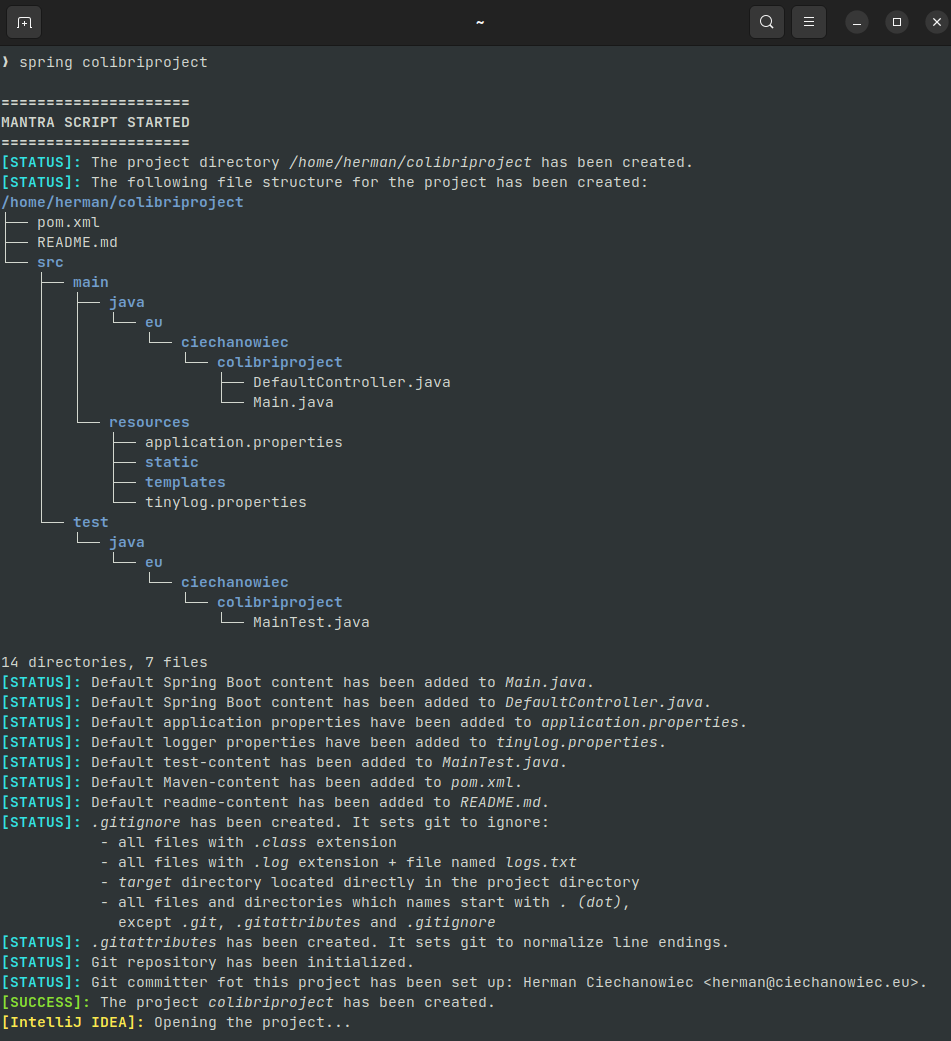
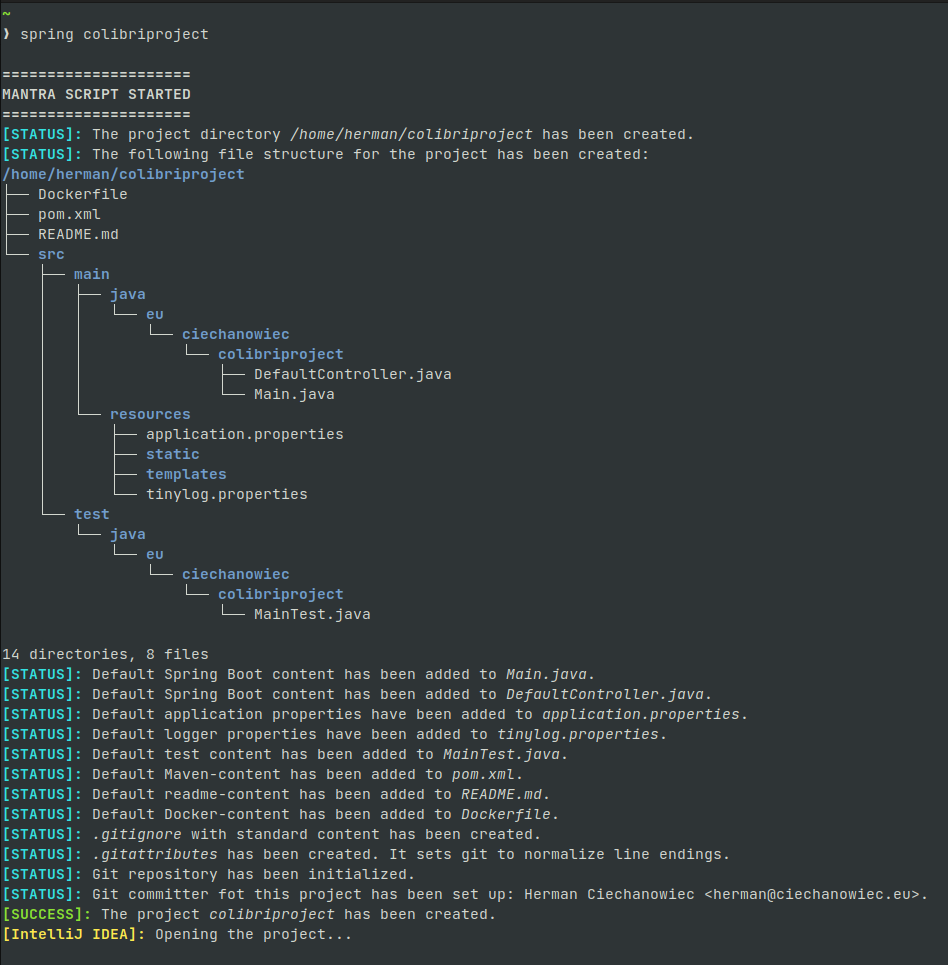
Update readme

Changed region(s): [[0.0, 0.3109, 0.9789, 0.9948], [0.0, 0.0, 0.7342, 0.4041], [0.7954, 0.0, 0.8259, 0.0311]]

diff --git a/README.md b/README.md
@@ -45,6 +45,7 @@ The script is executed according to the following algorithm:
 4\. In the project directory create the file structure according to the following template:<br/>
 ```
 /home/herman/colibriproject
+├── Dockerfile
 ├── pom.xml
 ├── README.md
 └── src
@@ -66,32 +67,22 @@ The script is executed according to the following algorithm:
                 └── ciechanowiec
                     └── colibriproject
                         └── MainTest.java
-
 ```     
 The above file structure implements the default file structure used by Spring Boot when initializing projects at https://start.spring.io/ (captured on May 2022)<br/>
-5\. Add default Spring Boot content to `Main.java` <br/>
-6\. Add default Spring Boot content to `DefaultController.java` <br/>
-7\. Add default application properties to `application.properties`<br/>
-8\. Add default logger properties to `tinylog.properties` (logging to a file)<br/>
-9\. Add default test content to `MainTest.java` (testing whether the context was loaded)<br/>
-10\. Add default Maven-content to `pom.xml`<br/>
-11\. Add default content to `README.md` (the project name and date of creation)<br/>
-12\. Add `.gitignore` file with standard content
-13\. Add `.gitattributes` file which normalizes line endings<br/>
-14\. Initialize git repository in the project directory<br/>
-15\. Set up git committer<br/>
-16\. Show finish message on successful project creation<br/>
-17\. Open the project directory in the new window with IntelliJ IDEA Community, IntelliJ IDEA Ultimate or Visual Studio Code if installed (this option works if it was turned on during configuration, by default it is turned off)
+5\. Add default content to project files
+6\. Initialize git repository in the project directory<br/>
+7\. Set up git committer<br/>
+8\. Open the project directory in the new window with IntelliJ IDEA Community, IntelliJ IDEA Ultimate or Visual Studio Code if installed (this option works if it was turned on during configuration, by default it is turned off)
 
 ## How to Use
 1. Make sure that prerequisites listed above are installed
 2. Put the script (file `.spring_mantra.sh`) to the home folder so that its path will be `~/.spring_mantra.sh`
-3. At the end of the script (file `.spring_mantra.sh`), after the comment-banner `DRIVER CODE`, there are 3 blocks of code encapsulated inside the pair-comments `>> START OF A CONFIGURABLE BLOCK` and `<< END OF A CONFIGURABLE BLOCK`. Configure the code in that blocks according to the clues contained in that blocks
-4. Give the script a permission to be run (`chmod 755 ~/.spring_mantra.sh`)
+3. At the end of the script (file `.spring_mantra.sh`), after the comment-banner `DRIVER CODE`, there are 3 blocks of code encapsulated inside the pair-comments `>> START OF A CONFIGURABLE BLOCK` and `<< END OF A CONFIGURABLE BLOCK`. Configure the code in those blocks according to the clues contained in those blocks
+4. Give the script permission to be run (`chmod 755 ~/.spring_mantra.sh`)
 5. Set up the following alias for the terminal (on Linux Ubuntu aliases are usually specified in the hidden file `~/.bashrc`):<br>
    `alias spring='~/.spring_mantra.sh'`
 6. Restart all instances of the terminal
-7. Now Spring Mantra can be run by invoking the `spring` command
+7. Now the script can be run by invoking the `spring` command
 
 ## Screenshots
 <kbd><img src="!presentation/1.png"></kbd><br/>
